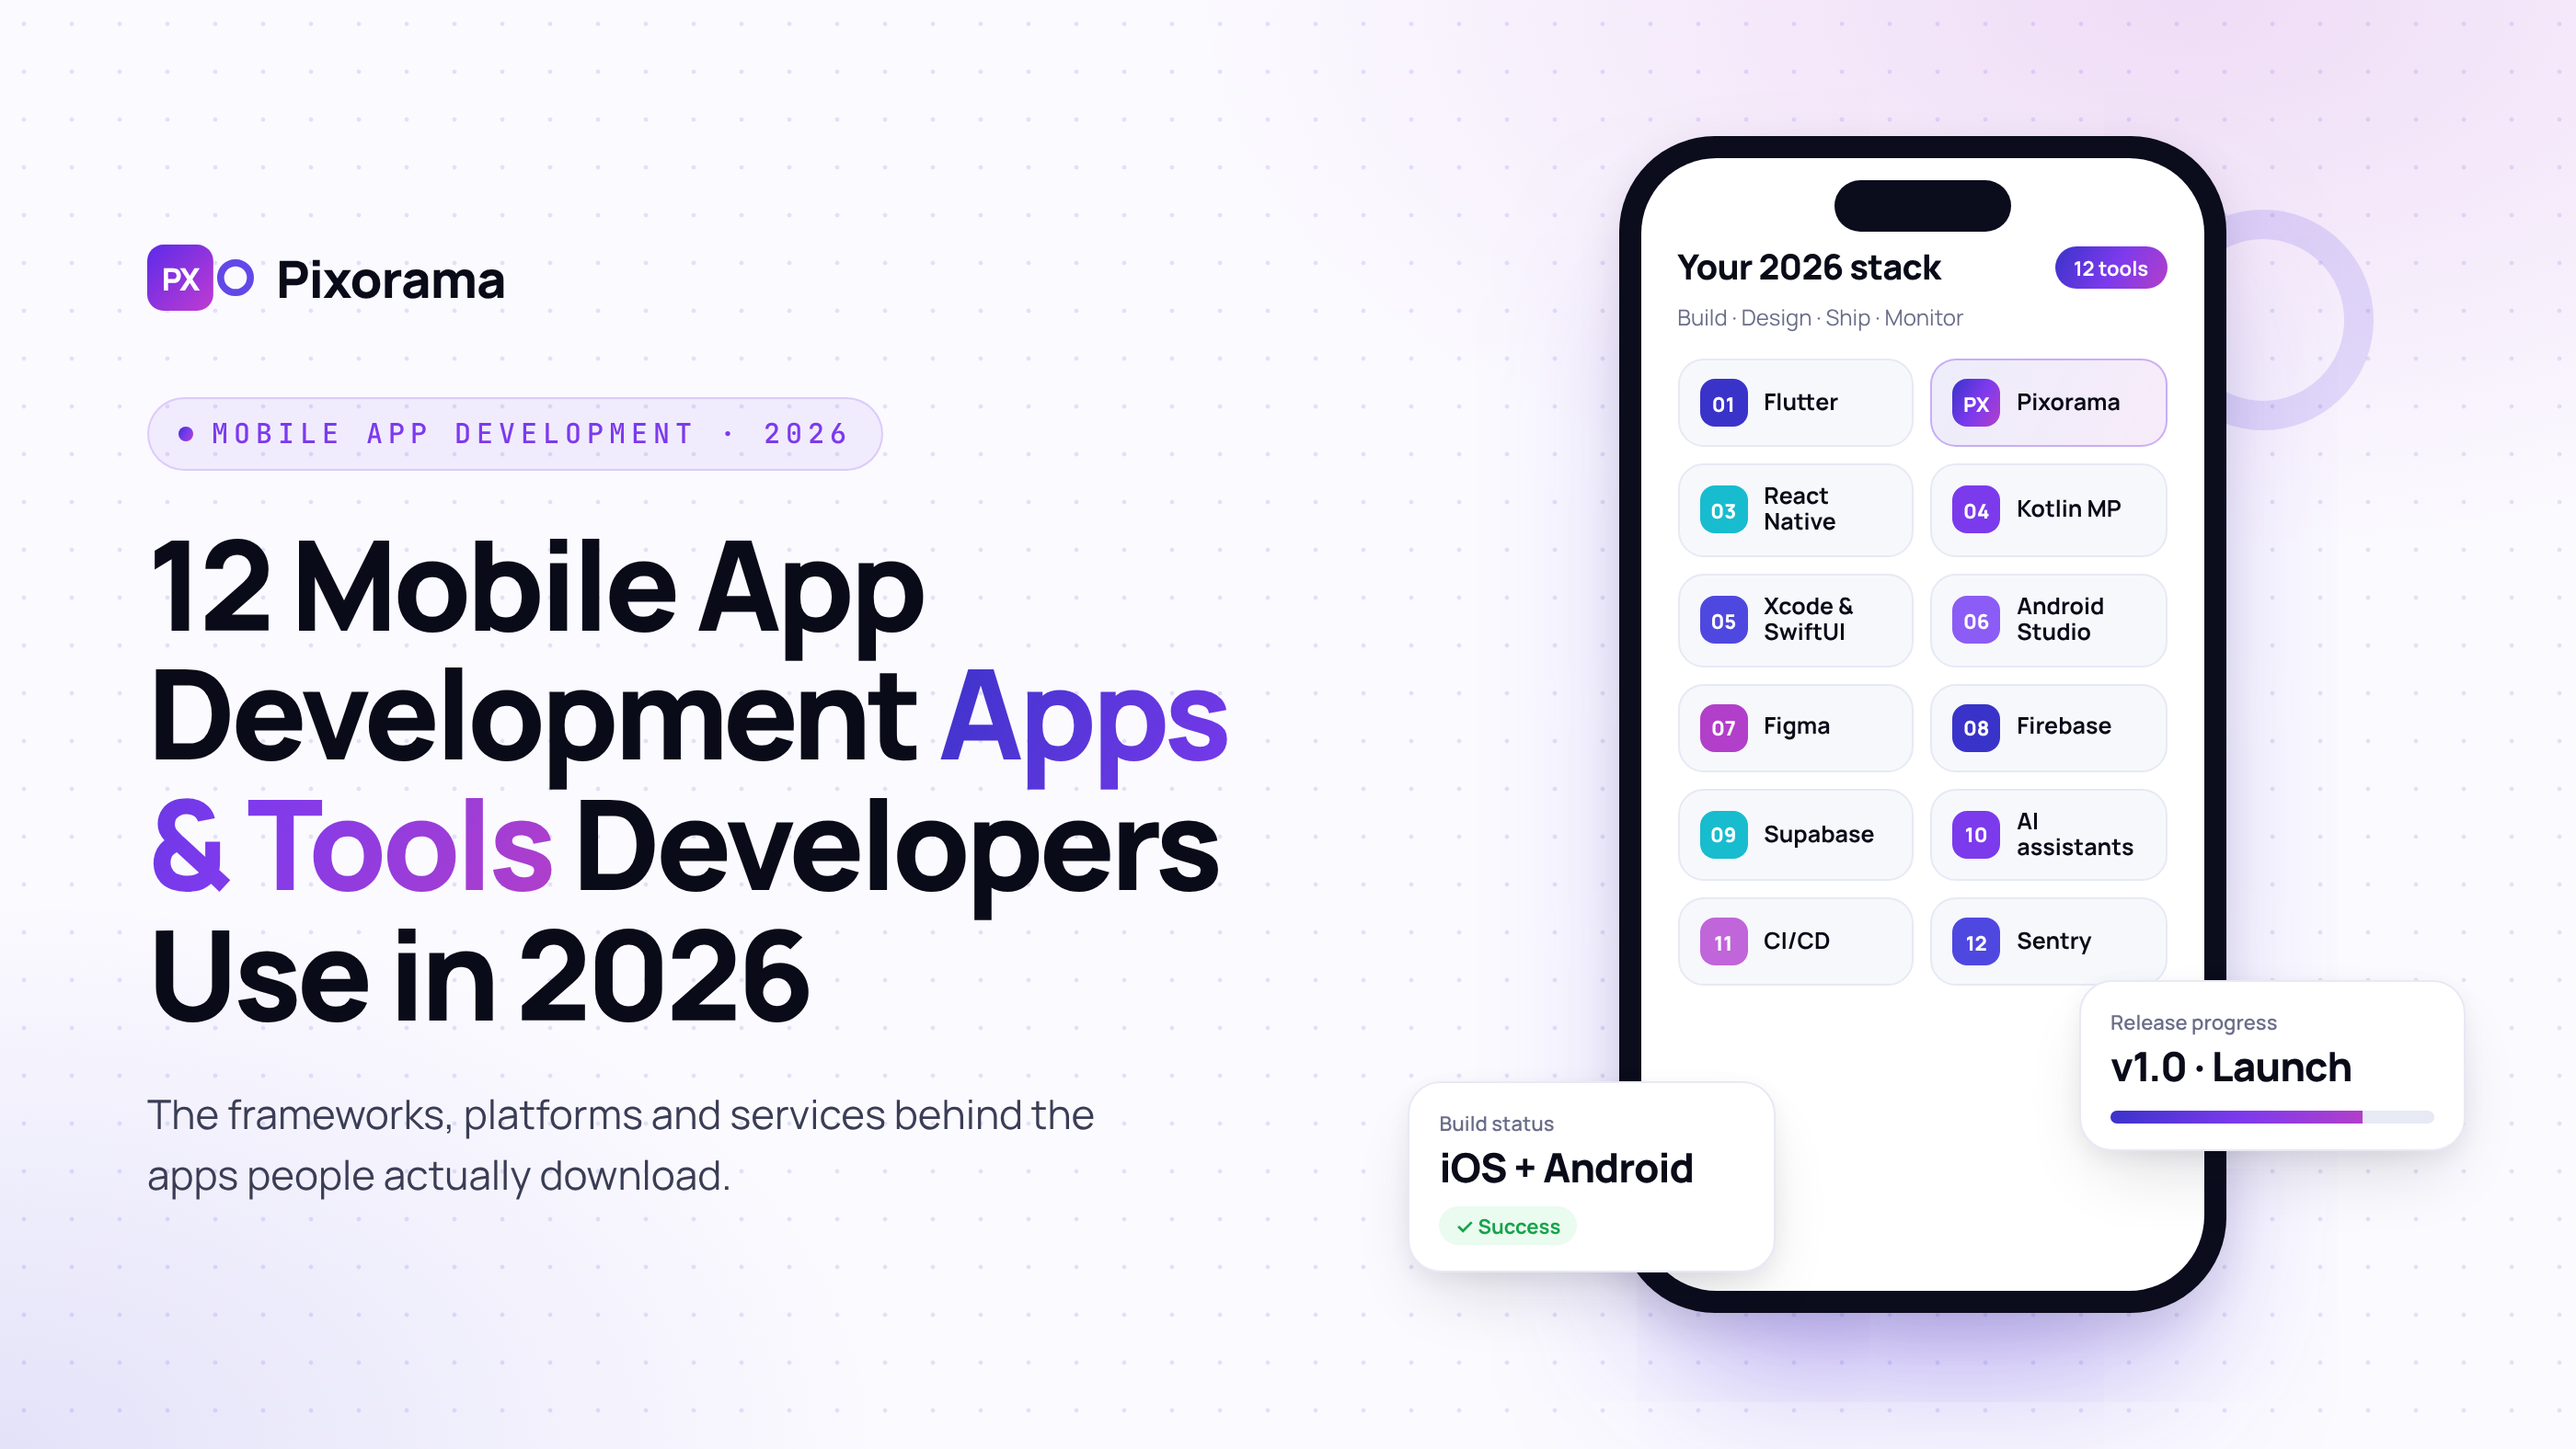
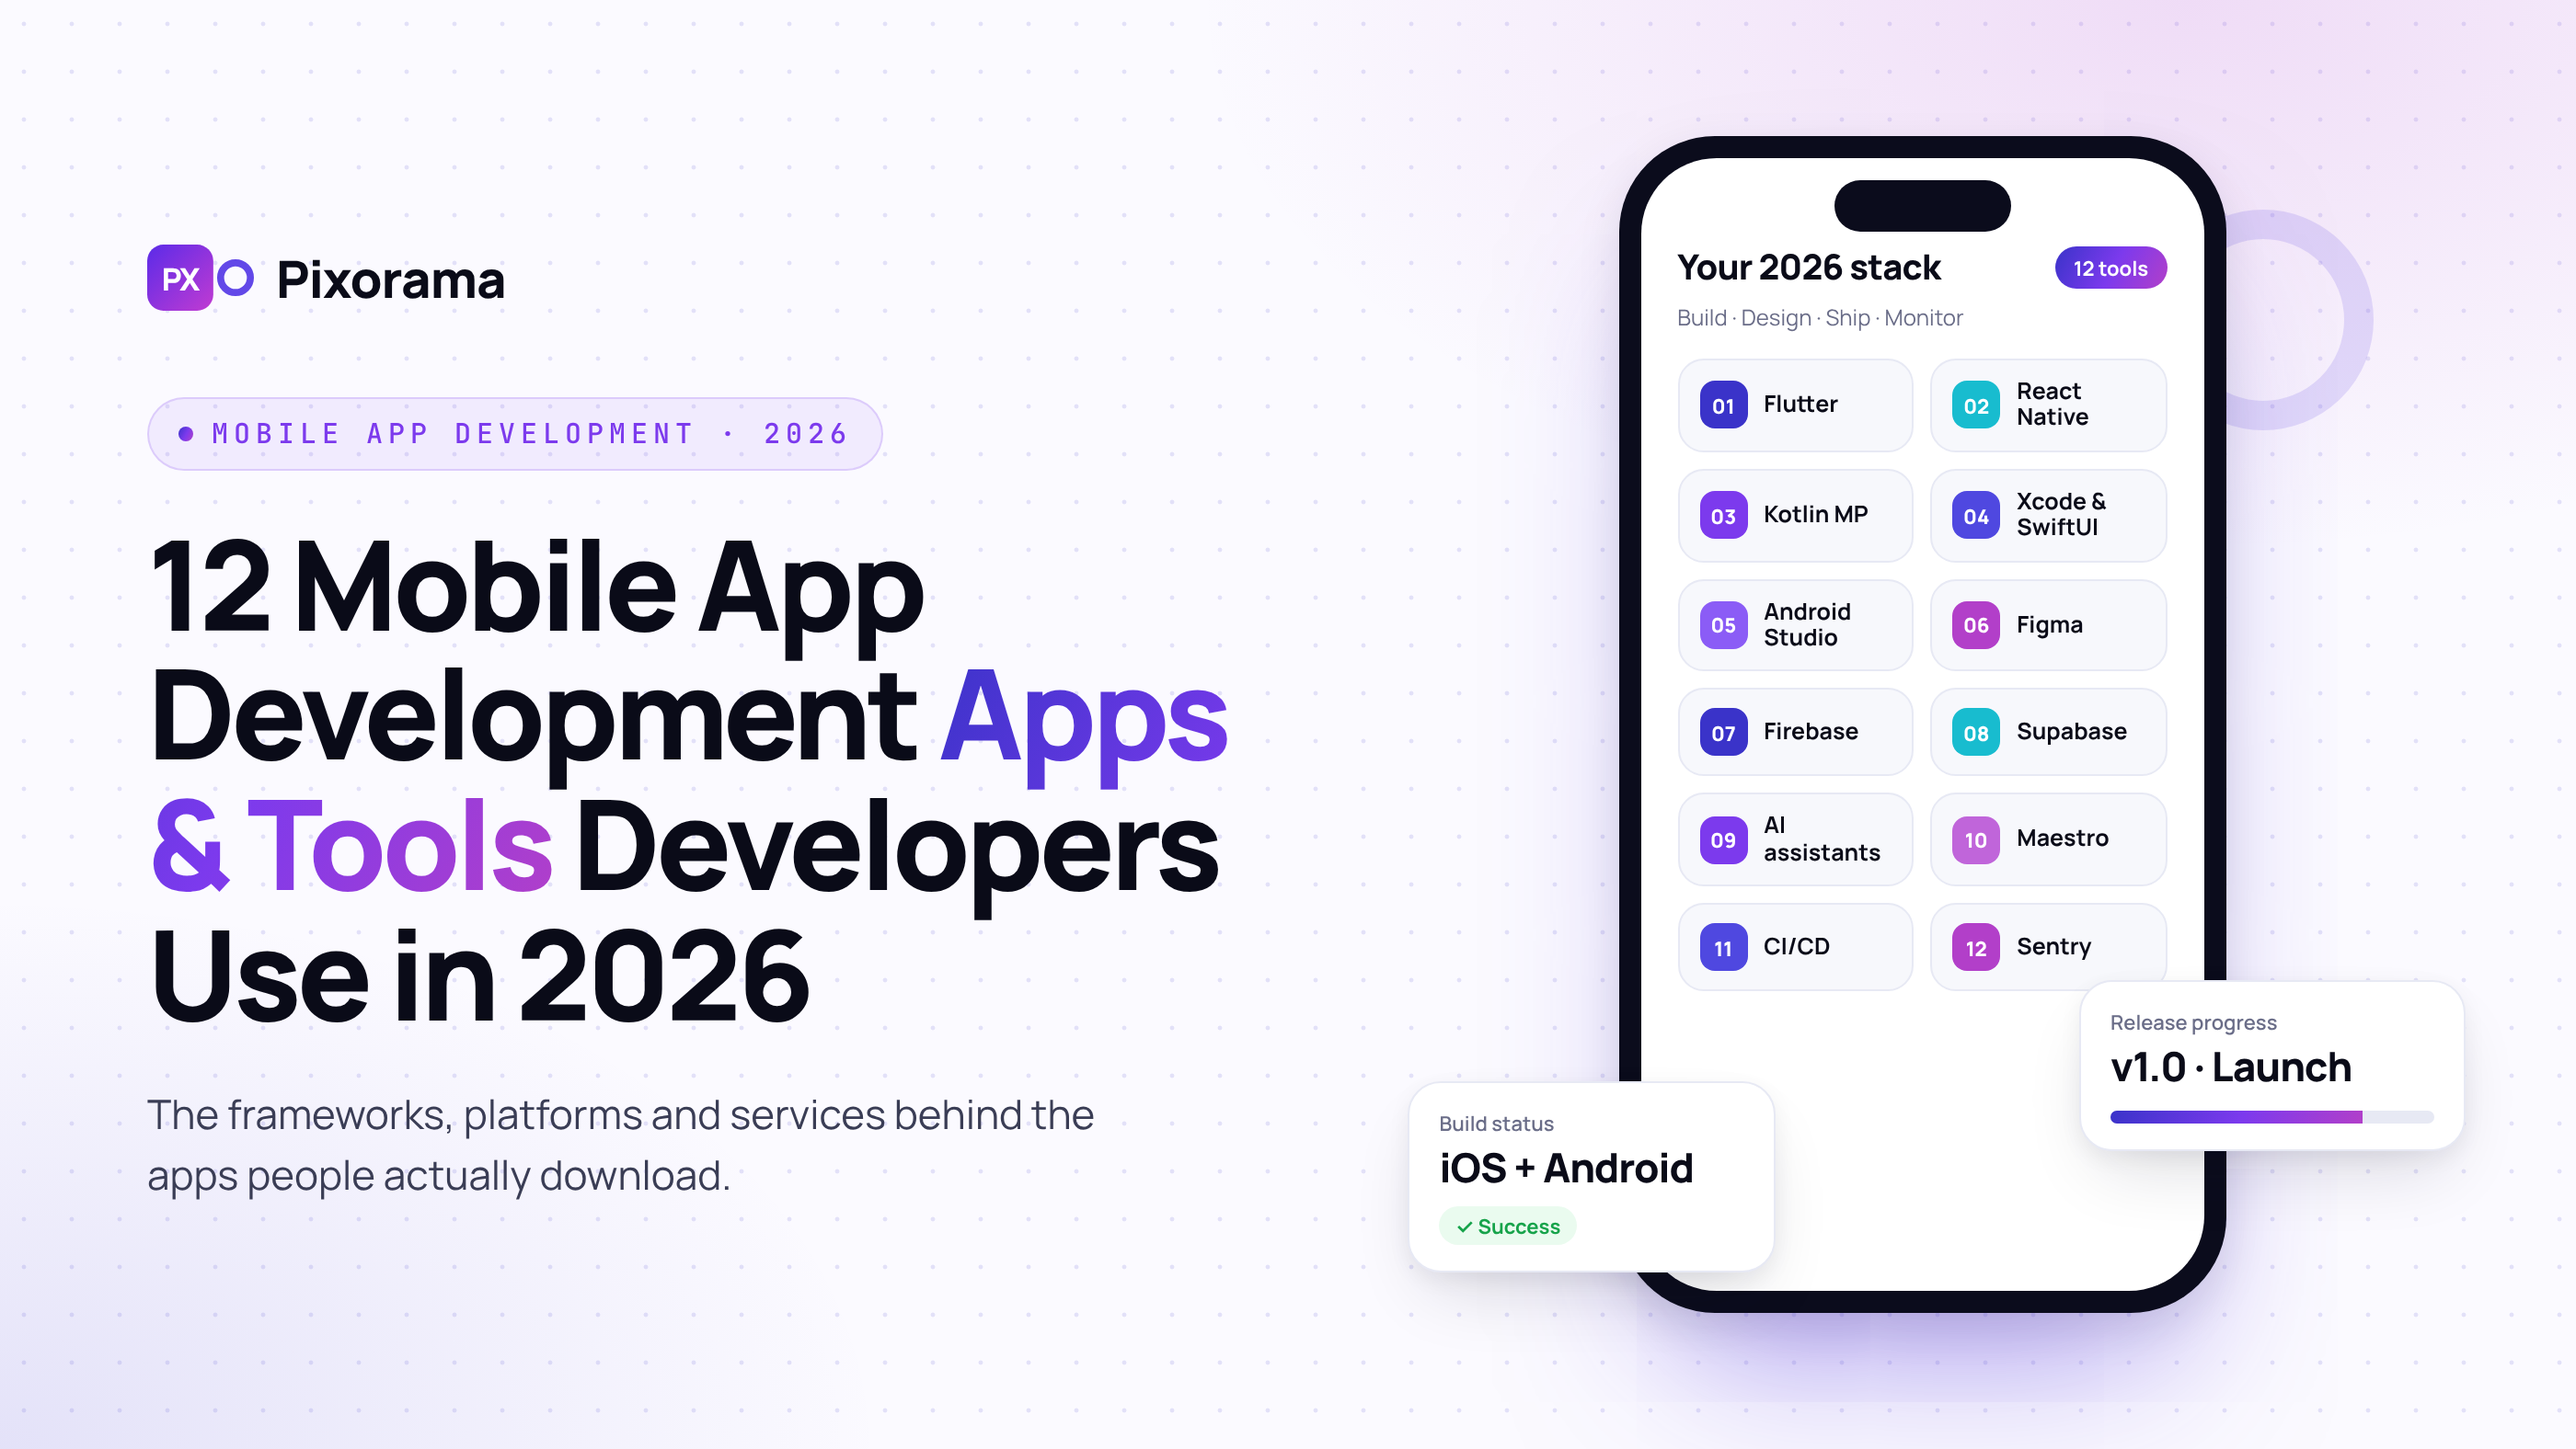
Move Pixorama out of the tools list into its own section; add Maestro
Claude-Session: https://claude.ai/code/session_013GfxFFujAEXvpEAQZHzLtU

diff --git a/blogs/mobile-app-development-tools-2026-banner.html b/blogs/mobile-app-development-tools-2026-banner.html
@@ -65,17 +65,17 @@ box-shadow:0 4px 12px rgba(16,18,42,.06),0 18px 40px -12px rgba(16,18,42,.16);z-
    <div class="ss">Build · Design · Ship · Monitor</div>
    <div class="grid">
     <div class="t"><div class="ic" style="background:#3a33c9">01</div><p>Flutter</p></div>
-    <div class="t px"><div class="ic" style="background:var(--grad)">PX</div><p>Pixorama</p></div>
-    <div class="t"><div class="ic" style="background:#18bccf">03</div><p>React Native</p></div>
-    <div class="t"><div class="ic" style="background:#7c3aed">04</div><p>Kotlin MP</p></div>
-    <div class="t"><div class="ic" style="background:#4f48e0">05</div><p>Xcode &amp; SwiftUI</p></div>
-    <div class="t"><div class="ic" style="background:#8b5cf6">06</div><p>Android Studio</p></div>
-    <div class="t"><div class="ic" style="background:#b23fc9">07</div><p>Figma</p></div>
-    <div class="t"><div class="ic" style="background:#3a33c9">08</div><p>Firebase</p></div>
-    <div class="t"><div class="ic" style="background:#18bccf">09</div><p>Supabase</p></div>
-    <div class="t"><div class="ic" style="background:#7c3aed">10</div><p>AI assistants</p></div>
-    <div class="t"><div class="ic" style="background:#c065da">11</div><p>CI/CD</p></div>
-    <div class="t"><div class="ic" style="background:#4f48e0">12</div><p>Sentry</p></div>
+    <div class="t"><div class="ic" style="background:#18bccf">02</div><p>React Native</p></div>
+    <div class="t"><div class="ic" style="background:#7c3aed">03</div><p>Kotlin MP</p></div>
+    <div class="t"><div class="ic" style="background:#4f48e0">04</div><p>Xcode &amp; SwiftUI</p></div>
+    <div class="t"><div class="ic" style="background:#8b5cf6">05</div><p>Android Studio</p></div>
+    <div class="t"><div class="ic" style="background:#b23fc9">06</div><p>Figma</p></div>
+    <div class="t"><div class="ic" style="background:#3a33c9">07</div><p>Firebase</p></div>
+    <div class="t"><div class="ic" style="background:#18bccf">08</div><p>Supabase</p></div>
+    <div class="t"><div class="ic" style="background:#7c3aed">09</div><p>AI assistants</p></div>
+    <div class="t"><div class="ic" style="background:#c065da">10</div><p>Maestro</p></div>
+    <div class="t"><div class="ic" style="background:#4f48e0">11</div><p>CI/CD</p></div>
+    <div class="t"><div class="ic" style="background:#b23fc9">12</div><p>Sentry</p></div>
    </div>
   </div></div>
   <div class="card c1"><div class="k">Build status</div><div class="v">iOS + Android</div><span class="ok">✓ Success</span></div>

diff --git a/blogs/mobile-app-development-tools-2026.md b/blogs/mobile-app-development-tools-2026.md
@@ -6,7 +6,7 @@
 
 Building a mobile app in 2026 is less about writing code and more about choosing the right tools. Pick well and a small team can ship to iOS and Android in a few months. Pick badly and you spend that time fighting your own stack.
 
-We build mobile apps for startups and enterprises across India, the USA and Australia, and these are the tools that keep showing up in our projects and in the teams we work alongside. Some are frameworks, some are platforms, and one is us. We'll be upfront about that when we get there.
+We build mobile apps for startups and enterprises across India, the USA and Australia, and these are the tools that keep showing up in our projects and in the teams we work alongside. Some are frameworks, some are platforms, and all of them earn their place in a real project.
 
 ---
 
@@ -37,29 +37,7 @@ Flutter is Google's open-source UI toolkit. You write your app once in Dart, and
 
 ---
 
-## 2. Pixorama: when you need a team, not another tool
-
-**Best for:** funded startups and enterprises that need a production-ready app and don't want to assemble an in-house team first.
-
-*Full disclosure: this is our company, and this article is published by our team.*
-
-Tools only take you so far. Someone still has to choose the stack, design the architecture, write the code, pass App Store review and keep the app running after launch. That's where [Pixorama](https://pixoramagroup.com) fits.
-
-We're an engineering-led company that builds native and cross-platform mobile apps using the tools on this list. Our own app, **EchoMind**, is a private AI journal for iOS and Android, so we ship to the stores ourselves, not just for clients.
-
-**How teams work with us:**
-- **Outcome-based projects:** fixed scope and milestones, from MVP to launch
-- **Dedicated squads:** an embedded team that keeps building after launch
-- **Specialist augmentation:** senior mobile engineers who join your existing team
-- **Advisory and architecture:** a stack review before you commit
-
-**What's different:** you keep everything. Every engagement includes a full handover of code and IP.
-
-**Watch out for:** if you're building a weekend side project, a framework and a tutorial will serve you better than an agency.
-
----
-
-## 3. React Native with Expo: mobile app development with React
+## 2. React Native with Expo: mobile app development with React
 
 **Best for:** teams that already know JavaScript or TypeScript and React.
 
@@ -74,7 +52,7 @@ React Native, maintained by Meta, lets you build mobile apps with React and rend
 
 ---
 
-## 4. Kotlin Multiplatform: share logic, keep native UI
+## 3. Kotlin Multiplatform: share logic, keep native UI
 
 **Best for:** teams that want native look and feel but don't want to write the same business logic twice.
 
@@ -89,7 +67,7 @@ Kotlin Multiplatform (KMP), from JetBrains, lets you share code such as networki
 
 ---
 
-## 5. Xcode and SwiftUI: the iOS essentials
+## 4. Xcode and SwiftUI: the iOS essentials
 
 **Best for:** anyone shipping to the App Store, which means almost everyone.
 
@@ -104,7 +82,7 @@ Even if you build with Flutter or React Native, you'll need Xcode, Apple's devel
 
 ---
 
-## 6. Android Studio and Jetpack Compose: the Android essentials
+## 5. Android Studio and Jetpack Compose: the Android essentials
 
 **Best for:** native Android apps, and debugging any app on Android devices.
 
@@ -119,7 +97,7 @@ Android Studio is Google's official development environment for Android. Jetpack
 
 ---
 
-## 7. Figma: where the app starts
+## 6. Figma: where the app starts
 
 **Best for:** designing screens, building clickable prototypes and handing designs to developers.
 
@@ -134,7 +112,7 @@ Most apps begin life in Figma. Designers build screens and design systems there,
 
 ---
 
-## 8. Firebase: a backend without the servers
+## 7. Firebase: a backend without the servers
 
 **Best for:** MVPs and apps that need authentication, a database and push notifications fast.
 
@@ -149,7 +127,7 @@ Firebase is Google's app development platform. It bundles the services most mobi
 
 ---
 
-## 9. Supabase: the open-source alternative
+## 8. Supabase: the open-source alternative
 
 **Best for:** teams that want a Firebase-style experience on top of a real SQL database.
 
@@ -164,7 +142,7 @@ Supabase gives you a hosted PostgreSQL database with authentication, file storag
 
 ---
 
-## 10. AI coding assistants: GitHub Copilot, Cursor and Claude Code
+## 9. AI coding assistants: GitHub Copilot, Cursor and Claude Code
 
 **Best for:** speeding up everyday coding, writing tests and understanding unfamiliar codebases.
 
@@ -176,6 +154,21 @@ AI assistants are now a normal part of the mobile developer's toolkit. GitHub Co
 - Helpful for moving between Swift, Kotlin, Dart and TypeScript
 
 **Watch out for:** AI-generated code still needs careful review, especially around security, payments and user data.
+
+---
+
+## 10. Maestro: automated UI testing without the pain
+
+**Best for:** teams that want end-to-end tests for real user journeys like sign-up, checkout and onboarding.
+
+Maestro is an open-source framework for testing mobile apps the way a user would: tapping, typing and scrolling through real screens. You write tests as simple, readable flows instead of complex test code, and it works with native, Flutter and React Native apps on both iOS and Android.
+
+**Why developers like it:**
+- Tests are short and easy to read, even for non-developers
+- Handles the delays and flaky timing that break many UI tests
+- Fits into your CI/CD pipeline so every build is checked automatically
+
+**Watch out for:** UI tests complement unit tests rather than replace them. Test your business logic separately. If your team already uses Appium or Detox, there's no need to switch.
 
 ---
 
@@ -221,7 +214,7 @@ There's no single best stack. Here's a quick guide based on the projects we see 
 | Premium iOS-first product | SwiftUI and Xcode, then Android later |
 | Regulated industry (fintech, healthcare) | Native or KMP, a backend you control, and strict monitoring |
 
-Whatever you choose, add **Figma** at the start and **CI/CD** and **Sentry** before launch. Teams that skip those three almost always regret it.
+Whatever you choose, add **Figma** at the start, and **automated testing**, **CI/CD** and **Sentry** before launch. Teams that skip these almost always regret it.
 
 ---
 
@@ -230,6 +223,24 @@ Whatever you choose, add **Figma** at the start and **CI/CD** and **Sentry** bef
 1. **Choosing the trendiest framework instead of the one your team knows.** A familiar tool used well beats a new one used badly.
 2. **Ignoring what happens after launch.** Monitoring, updates and store reviews are where most of the long-term work lives.
 3. **Locking into a backend without an exit plan.** Make sure you can export your data and move if you outgrow your provider.
+
+---
+
+## When you need a team, not another tool
+
+Tools only take you so far. Someone still has to choose the stack, design the architecture, write the code, get through App Store review and keep the app healthy after launch. For many startups and enterprises, that's the hardest part.
+
+*Full disclosure: this is where we come in. [Pixorama](https://pixoramagroup.com) is the company behind this article.*
+
+We're an engineering-led team that builds native and cross-platform mobile apps with the tools on this list. Our own app, **EchoMind**, is a private AI journal for iOS and Android, so we ship to the stores ourselves, not just for clients.
+
+**Ways teams work with us:**
+- **Outcome-based projects:** fixed scope and milestones, from MVP to launch
+- **Dedicated squads:** an embedded team that keeps building after launch
+- **Specialist augmentation:** senior mobile engineers who join your existing team
+- **Advisory and architecture:** a stack review before you commit
+
+Every engagement ends with a full handover of code and IP, so the app is always yours.
 
 ---
 
